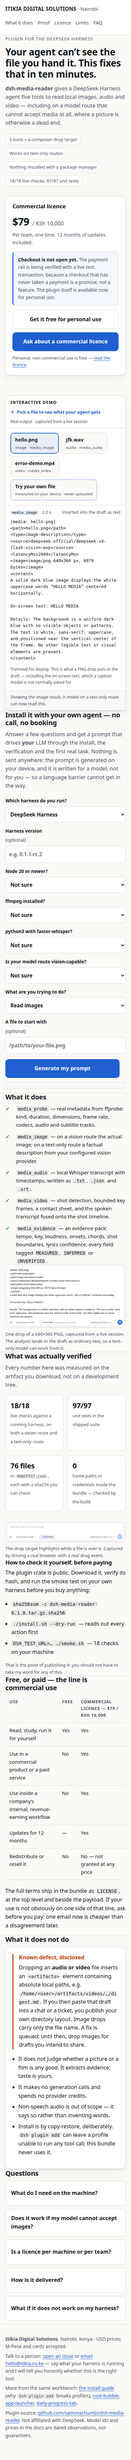
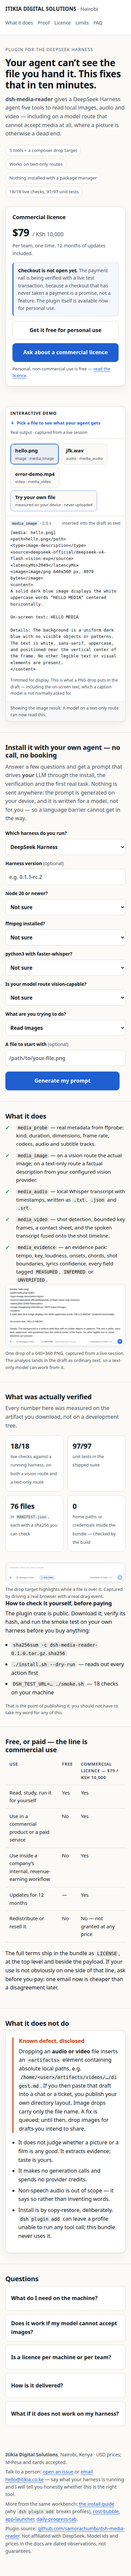
Storefront uniformity: uniform section rhythm, uniform controls, no phantom gaps
The operator reported the harness-version box looking unlike the rest. Measuring found three root causes,
and the third was the one visible to the eye.

1. **Every section had zero vertical padding.** `.wrap` used the `padding: 0 16px` shorthand, and a class
   beats an element selector, so it silently overrode `section { padding-block: … }` on all eight sections.
   The page had no rhythm at all — sections were butted together behind a 1 px rule. `.wrap` now sets only
   `padding-inline: clamp(16px, 4vw, 28px)`, and every section measures a uniform 68 px top and bottom.
2. **Text inputs measured 50 px against 48 px selects** — not a style mismatch but a layout one: an input's
   content box is a text line (24.32 px), a select's is not. Both now use `height: 48px; padding: 0 10px;
   box-sizing: border-box`, so the box model is identical and explicit.
3. **The `(optional)` hint was a third flex child**, so it took its own row and pushed the *Harness version*
   and *A file to start with* inputs ~29 px below their neighbours. Both hints now share the label line; the
   eight controls sit on exactly two aligned rows of four.

Also: the empty `#agent-status` bar rendered 20 px of dead space (now `:empty { display: none }`), and the
last section no longer doubles its border against the footer.

Verified after the change: all 19 wizard assertions and all 8 own-file assertions still pass; no horizontal
[…]

Changed region(s): [[0.0308, 0.0, 0.9538, 0.9966]]

diff --git a/store/index.html b/store/index.html
@@ -49,7 +49,8 @@
     margin: 0; background: var(--paper); color: var(--ink);
     font: 16px/1.6 ui-sans-serif, system-ui, -apple-system, "Segoe UI", Roboto, Helvetica, Arial, sans-serif;
   }
-  .wrap { width: 100%; max-width: 1120px; margin: 0 auto; padding: 0 16px; }
+  /* only horizontal padding: the shorthand here silently killed every section's padding-block */
+  .wrap { width: 100%; max-width: 1120px; margin: 0 auto; padding-inline: clamp(16px, 4vw, 28px); }
   a { color: var(--accent); text-underline-offset: 3px; }
   h1, h2, h3 { line-height: 1.18; margin: 0 0 .5em; letter-spacing: -0.015em; }
   h1 { font-size: clamp(1.75rem, 6vw, 3.1rem); }
@@ -67,7 +68,8 @@
   nav.site a { color: var(--ink-soft); text-decoration: none; display: inline-flex; align-items: center; min-height: 44px; }
   nav.site a:hover, nav.site a:focus-visible { color: var(--ink); text-decoration: underline; }
 
-  section { padding: clamp(28px, 6vw, 64px) 0; border-bottom: 1px solid var(--line); }
+  section { padding-block: clamp(32px, 5.5vw, 68px); border-bottom: 1px solid var(--line); scroll-margin-top: 16px; }
+  section:last-of-type { border-bottom: 0; }
   .hero { display: grid; gap: 28px; }
   .eyebrow { font-size: .8rem; letter-spacing: .09em; text-transform: uppercase; color: var(--ink-soft); margin: 0 0 12px; }
   .hero-facts { display: flex; flex-wrap: wrap; gap: 8px; margin: 20px 0 0; padding: 0; list-style: none; }
@@ -132,9 +134,13 @@
   .agent-grid { display: grid; gap: 14px; grid-template-columns: repeat(auto-fit, minmax(230px, 1fr)); margin-bottom: 16px; }
   .agent-field { display: flex; flex-direction: column; gap: 6px; font-size: .85rem; font-weight: 600; }
   .agent-field .opt { font-weight: 400; color: var(--ink-soft); }
+  .agent-field .agent-label { display: block; min-height: 1.2em; }
+  /* identical box model for selects and text inputs: height was 48 vs 50 because an input's
+     content box is a text line while a select's is not */
   .agent-field select, .agent-field input {
-    font: inherit; font-size: .95rem; color: var(--ink); background: var(--card);
-    border: 1px solid var(--line); border-radius: 9px; padding: 12px 10px; min-height: 48px; width: 100%;
+    font: inherit; font-size: .95rem; line-height: 1.2; color: var(--ink); background: var(--card);
+    border: 1px solid var(--line); border-radius: 9px;
+    height: 48px; padding: 0 10px; width: 100%; box-sizing: border-box;
   }
   .agent-field select:focus-visible, .agent-field input:focus-visible { outline: 3px solid var(--accent); outline-offset: 2px; }
   #agent-generate { max-width: 340px; }
@@ -149,6 +155,7 @@
   .agent-actions { display: flex; flex-wrap: wrap; gap: 10px; }
   .agent-actions .btn { width: auto; min-width: 170px; }
   #agent-status { margin-top: 12px; border: 1px solid var(--line); border-radius: 8px; }
+  #agent-status:empty { display: none; }
   footer.site { padding-block: 32px 56px; font-size: .875rem; color: var(--ink-soft); }
   footer.site p { margin: 0 0 6px; }
   code { font-family: ui-monospace, SFMono-Regular, Menlo, monospace; font-size: .875em; background: color-mix(in srgb, var(--ink) 7%, transparent); padding: 1px 5px; border-radius: 5px;
@@ -337,7 +344,7 @@ Details: The background is a uniform dark blue with no visible objects or patter
             <option value="other">Something else / not sure</option>
           </select>
         </label>
-        <label class="agent-field">Harness version <span class="opt">(optional)</span>
+        <label class="agent-field"><span class="agent-label">Harness version <span class="opt">(optional)</span></span>
           <input name="version" type="text" placeholder="e.g. 0.1.1-rc.2" autocomplete="off">
         </label>
         <label class="agent-field">Node 20 or newer?
@@ -377,7 +384,7 @@ Details: The background is a uniform dark blue with no visible objects or patter
             <option value="mixed">All of it</option>
           </select>
         </label>
-        <label class="agent-field">A file to start with <span class="opt">(optional)</span>
+        <label class="agent-field"><span class="agent-label">A file to start with <span class="opt">(optional)</span></span>
           <input name="file" type="text" placeholder="/path/to/your-file.png" autocomplete="off">
         </label>
       </div>

diff --git a/store/evidence/MANIFEST.md b/store/evidence/MANIFEST.md
@@ -6,10 +6,10 @@ was committed with. Full-page captures, lazy images forced to load first.
 
 | file | viewport | page height | horizontal overflow | images |
 |---|---|---|---|---|
-| `page-320.png` | 320 × 900 | 8357 px | none | 2/2 loaded |
-| `page-390.png` | 390 × 900 | 7321 px | none | 2/2 loaded |
-| `page-768.png` | 768 × 900 | 5457 px | none | 2/2 loaded |
-| `page-1440.png` | 1440 × 900 | 4098 px | none | 2/2 loaded |
+| `page-320.png` | 320 × 900 | 8700 px | none | 2/2 loaded |
+| `page-390.png` | 390 × 900 | 7664 px | none | 2/2 loaded |
+| `page-768.png` | 768 × 900 | 6020 px | none | 2/2 loaded |
+| `page-1440.png` | 1440 × 900 | 4961 px | none | 2/2 loaded |
 
 The PNG's own pixel height equals the page height in this table — checked with `ffprobe`, because an
 earlier capture pass wrote 900 px strips while its console cheerfully printed "done". The cause was a
@@ -152,3 +152,28 @@ wizard sits below the fold (the harness now scrolls first); the width sweep cras
 because it was navigating to port 8099, a server that had been stopped; and a "wizard" screenshot was
 actually the hero because the clip used viewport-relative coordinates after a scroll (now absolute page
 coordinates plus `window.scrollY`).
+
+## Uniformity audit — 2026-11-04
+
+Measured from the live DOM after the operator reported "the harness version box is not uniform to the rest".
+
+**Three root causes, all of them mine:**
+
+1. **Every section had `padding-block: 0`.** `.wrap` used the `padding: 0 16px` shorthand, and a class
+   beats an element selector, so it silently overrode `section { padding-block: … }` on all eight
+   sections — the page had no vertical rhythm at all. `.wrap` now sets only `padding-inline`, and each
+   section measures a uniform **68 px** above and below.
+2. **Text inputs were 50 px against 48 px selects.** Not a style mismatch: an `<input>`'s content box is a
+   text line (24.32 px) while a select's is not. Both now set `height: 48px; padding: 0 10px; box-sizing:
+   border-box`.
+3. **The `(optional)` hint was a third flex child**, so it took its own row and pushed the *Harness version*
+   and *A file to start with* inputs ~29 px below their neighbours. Both hints now share the label line, and
+   the eight controls sit on exactly **two aligned rows of four**.
+
+Also fixed: the empty `#agent-status` bar rendered 20 px of dead space under the wizard (`:empty` now hides
+it), and the last section no longer doubles its border against the footer.
+
+**Harness defects found while auditing, and fixed:** the width sweep crashed twice for two different dead
+endpoints — port 8099 (a stopped server) and CDP port 9228 (a stopped browser) — because the scripts
+hardcoded them. All capture scripts now read `CDP_PORT` from the environment. Heights are re-read from
+each PNG with ffprobe on every update: 320: 8700, 390: 7664, 768: 6020, 1440: 4961 px.
